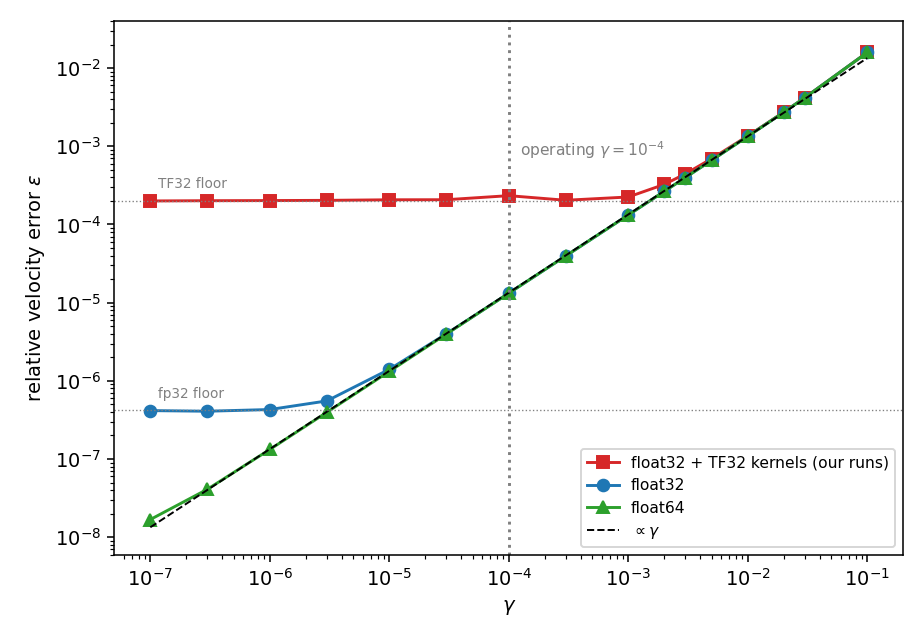
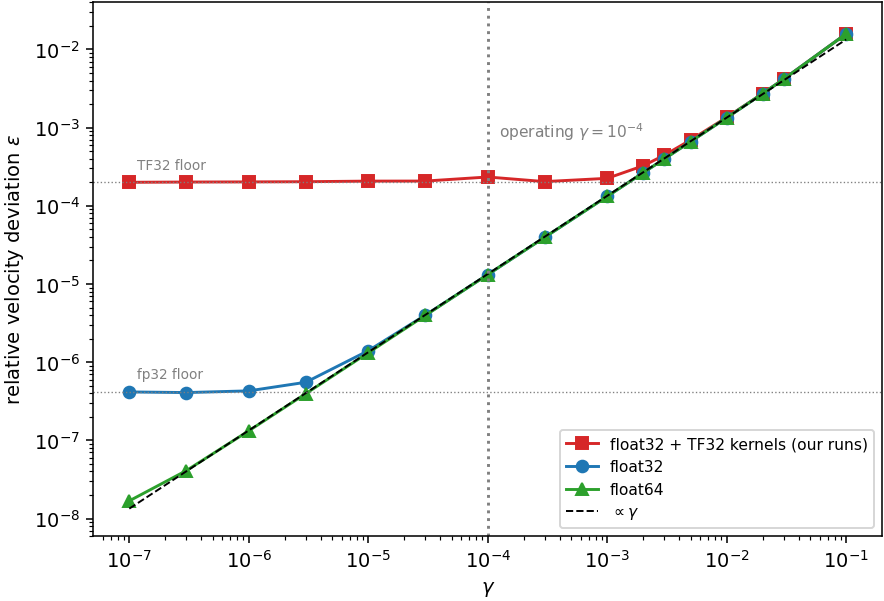
figure slight prettiness improvements

diff --git a/results_cifar10_pcn/in_paper/equivalence_at_inference/in_paper_velocity_correspondence_gamma_grid/make_figures.py b/results_cifar10_pcn/in_paper/equivalence_at_inference/in_paper_velocity_correspondence_gamma_grid/make_figures.py
@@ -67,10 +67,10 @@ for y, lab in [(2.0e-4, "TF32 floor"), (4.2e-7, "fp32 floor")]:
     ax.axhline(y, ls=":", lw=0.7, c="gray")
     ax.text(1.15e-7, y * 1.45, lab, fontsize=7, c="gray")
 ax.set_xlabel(r"$\gamma$")
-ax.set_ylabel(r"relative velocity error $\varepsilon$")
+ax.set_ylabel(r"relative velocity deviation $\varepsilon$")
 ax.legend(fontsize=8, loc="lower right")
 plt.tight_layout()
-plt.savefig(os.path.join(HERE, "figure_A_gamma_floors.png"), dpi=140)
+plt.savefig(os.path.join(HERE, "figure_A_gamma_floors.png"), dpi=140, bbox_inches="tight", pad_inches=0.02)
 plt.close()
 
 # ---- Figure B: K_h budget independence (deadbeat) ----
@@ -85,12 +85,12 @@ for g, c in [(1.0, "tab:purple"), (0.1, "tab:orange"), (0.01, "tab:cyan")]:
     khs = sorted(fp32.keys())
     ax.semilogy(khs, [fp32[k][g] for k in khs], "o-", c=c, label=fr"$\gamma=10^{{{round(math.log10(g/1000.0))}}}$")
 ax.set_xlabel(r"$K_h$ (relaxation sweeps)")
-ax.set_ylabel(r"relative velocity error $\varepsilon$")
+ax.set_ylabel(r"relative velocity deviation $\varepsilon$")
 ax.set_ylim(6e-7, 1e-3)          # headroom so the legend clears the top curve
 ax.legend(fontsize=8, loc="upper right")
 ax.set_xticks([1, 2, 4, 8, 14])
 plt.tight_layout()
-plt.savefig(os.path.join(HERE, "figure_B_kh_flatness.png"), dpi=140)
+plt.savefig(os.path.join(HERE, "figure_B_kh_flatness.png"), dpi=140, bbox_inches="tight", pad_inches=0.02)
 print("regenerated figure_A_gamma_floors.png, figure_B_kh_flatness.png")
 
 # ---- Figure C: how the O(gamma) bias splits between direction and magnitude ----
@@ -135,8 +135,8 @@ gsV = [g / ALPHA for g in gs]
 ax.loglog(gsV, eps, "o-", c="k", label=r"$\epsilon$ (total)")   # == figure A's epsilon when WEIGHTING="nw"
 ax.loglog(gsV, ang, "^-", c="tab:blue", label=r"$\epsilon_\perp$ (direction)")
 ax.loglog(gsV, mag, "s-", c="tab:orange", label=r"$\epsilon_\parallel$ (magnitude)")
-ax.set_xlabel(r"$\gamma$"); ax.set_ylabel(r"relative velocity error")
+ax.set_xlabel(r"$\gamma$"); ax.set_ylabel(r"relative velocity deviation")
 ax.legend(fontsize=8, loc="lower right")
 plt.tight_layout()
-plt.savefig(os.path.join(HERE, "figure_C_direction_vs_magnitude.png"), dpi=140)
+plt.savefig(os.path.join(HERE, "figure_C_direction_vs_magnitude.png"), dpi=140, bbox_inches="tight", pad_inches=0.02)
 print("regenerated figure_C_direction_vs_magnitude.png")
